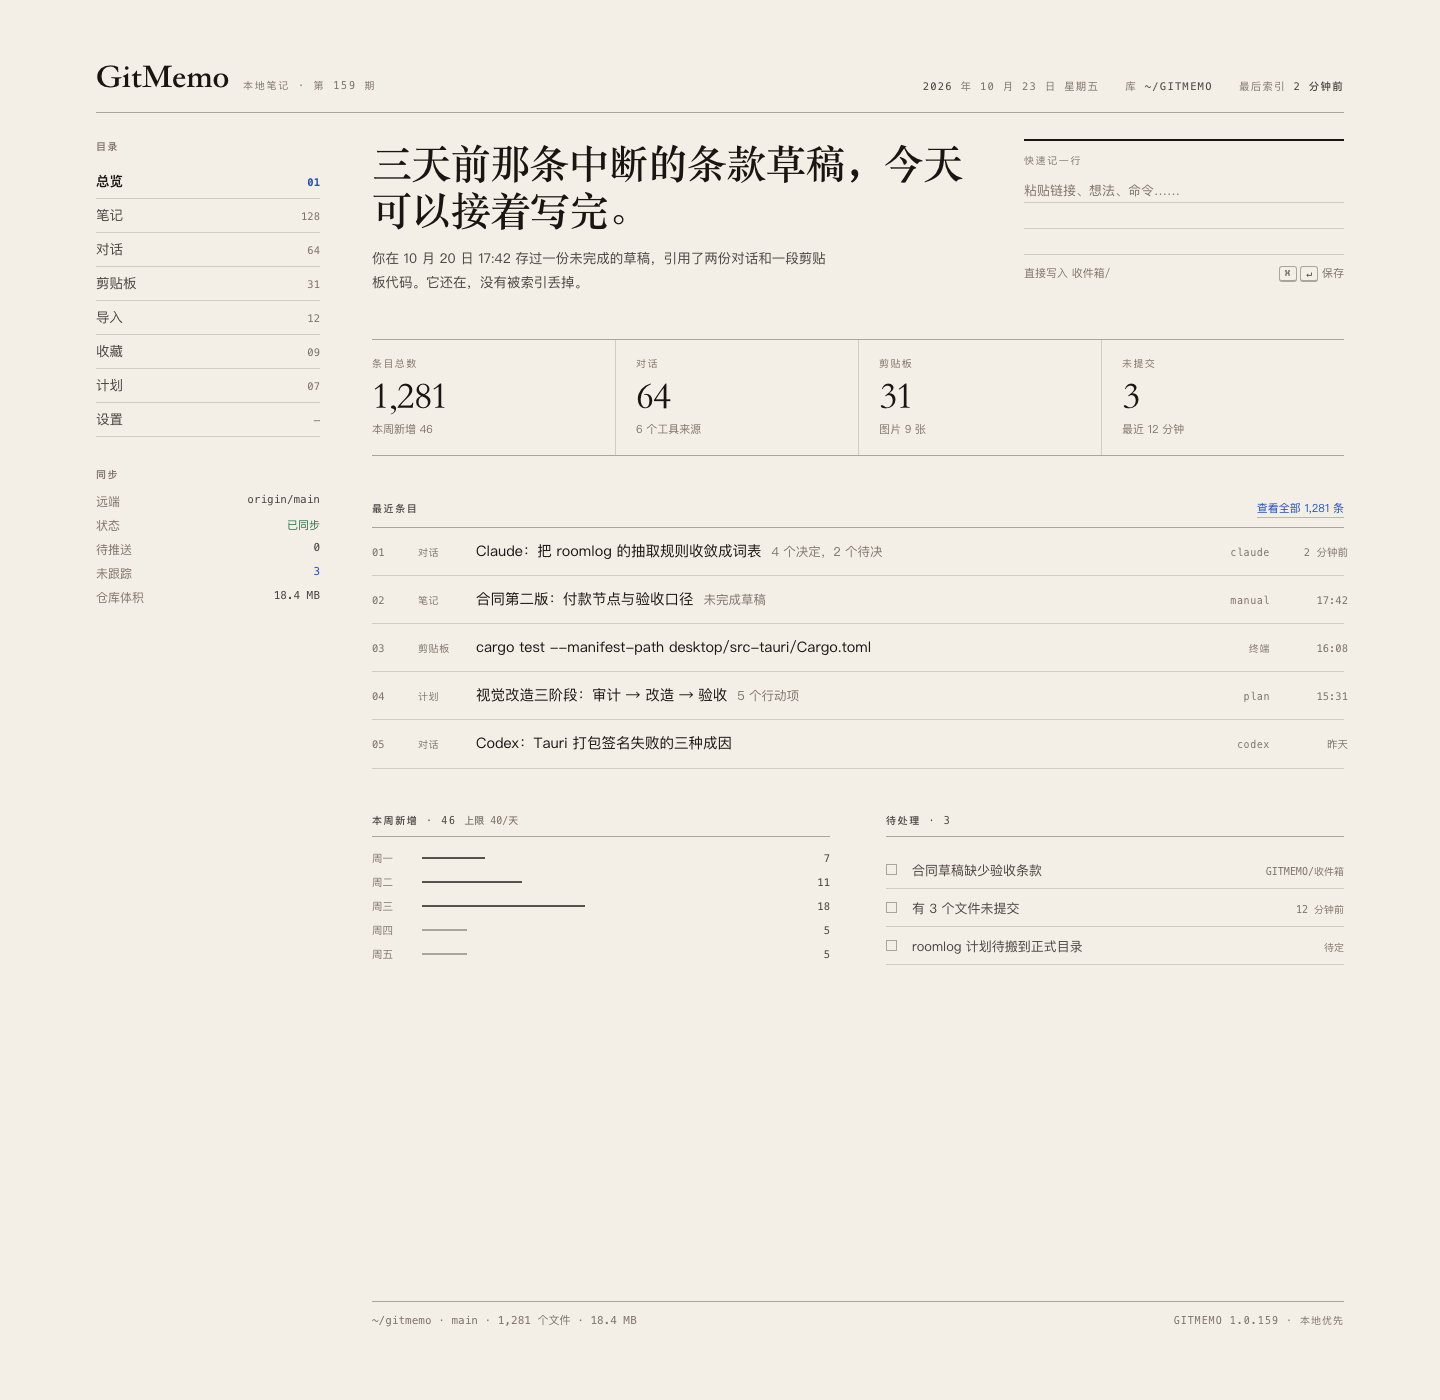
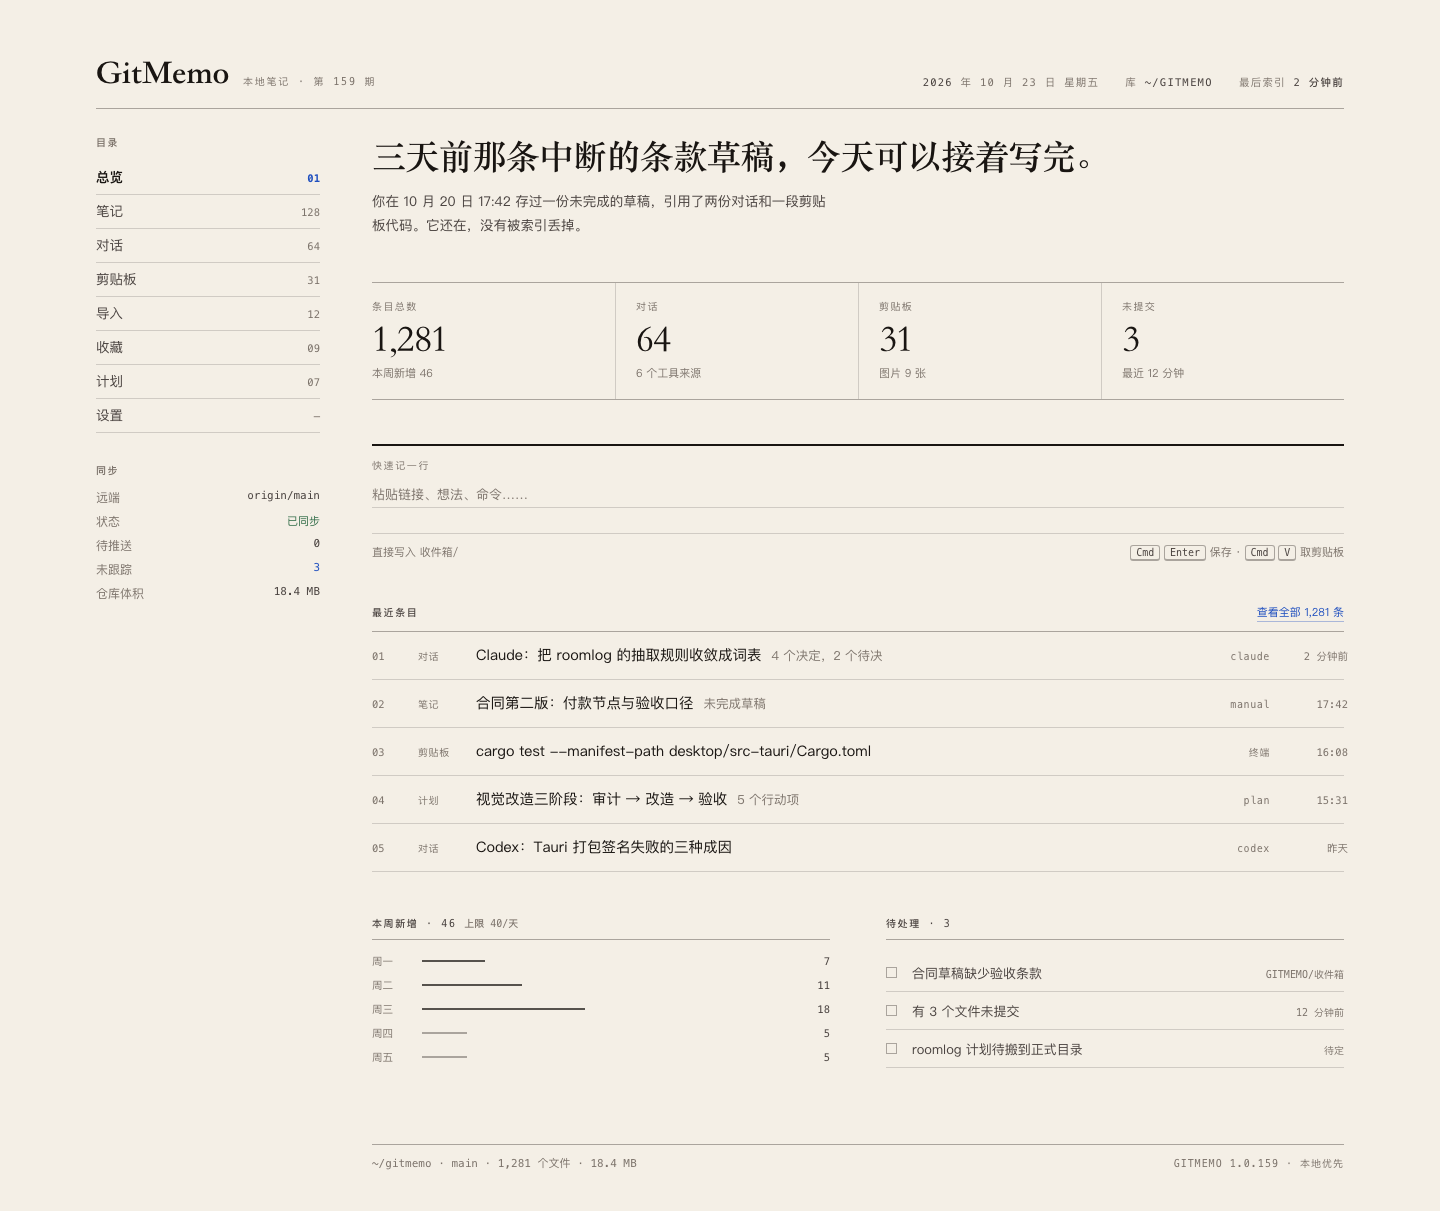
docs(design): tighten paper mock layout and move quick capture into the main flow

diff --git a/desktop/design-proposals/C-paper.html b/desktop/design-proposals/C-paper.html
@@ -20,7 +20,7 @@
   *{box-sizing:border-box;margin:0;padding:0}
   html,body{background:var(--paper);color:var(--ink);font-family:var(--sans);
     -webkit-font-smoothing:antialiased;font-variant-numeric:tabular-nums;overflow-x:hidden}
-  .page{width:1440px;min-height:1400px;margin:0 auto;padding:60px 96px 72px;
+  .page{width:1440px;margin:0 auto;padding:56px 96px 40px;
     display:flex;flex-direction:column}
   /* ---------- 报头 ---------- */
   .masthead{display:flex;align-items:flex-end;justify-content:space-between;
@@ -54,11 +54,14 @@
   /* ---------- 正文 ---------- */
   .body{display:flex;flex-direction:column;gap:44px;min-width:0}
   .body > section:last-of-type{flex:1}
-  .lede{display:grid;grid-template-columns:1fr 320px;gap:56px;align-items:start}
-  .lede h3{font-family:var(--serif);font-size:40px;line-height:1.18;font-weight:600;
-    letter-spacing:-.015em;max-width:15em}
+  .lede{display:block}
+  .lede h3{font-family:var(--serif);font-size:34px;line-height:1.22;font-weight:600;
+    letter-spacing:-.015em;max-width:22em}
   .lede p{margin-top:14px;font-size:13.5px;line-height:1.75;color:var(--ink-2);max-width:34em}
   .quick{border-top:2px solid var(--ink);padding-top:12px}
+  .quick-band{display:grid;grid-template-columns:1fr;gap:0}
+  .quick-band .line{height:30px;font-size:13.5px}
+  .quick-band .hint{margin-top:8px}
   .quick h4{font-family:var(--mono);font-size:10px;letter-spacing:.16em;
     text-transform:uppercase;color:var(--ink-3);font-weight:400;margin-bottom:10px}
   .quick .line{border-bottom:1px solid var(--rule);height:26px;display:flex;align-items:center;
@@ -116,7 +119,7 @@
   .todo li b{font-weight:400;font-family:var(--mono);font-size:10px;color:var(--ink-3)}
   /* ---------- 页脚 ---------- */
   .colophon{display:flex;justify-content:space-between;align-items:baseline;
-    margin-top:40px;padding-top:10px;border-top:1px solid var(--rule-strong);
+    margin-top:32px;padding-top:10px;border-top:1px solid var(--rule-strong);
     font-family:var(--mono);font-size:10px;letter-spacing:.1em;color:var(--ink-3);
     text-transform:uppercase}
   .colophon .path{text-transform:none;letter-spacing:0;font-size:11px}
@@ -128,10 +131,12 @@
     .brand h1{font-size:26px}
     .dateline{flex-wrap:wrap;gap:10px 18px;font-size:10px;width:100%}
     .sheet{grid-template-columns:1fr;gap:26px;padding-top:18px}
-    .rail{order:2}
+    .rail{order:0;display:grid;grid-template-columns:auto auto;gap:0 18px;align-items:start}
+    .rail .state{margin-top:0}
+    .nav{display:grid;grid-template-columns:1fr;column-gap:0}
     .nav{display:grid;grid-template-columns:1fr 1fr;column-gap:18px}
     .state{margin-top:22px}
-    .body{order:1;gap:30px}
+    .body{order:1;gap:28px}
     .lede{grid-template-columns:1fr;gap:24px}
     .lede h3{font-size:25px;line-height:1.28}
     .figures{grid-template-columns:1fr 1fr}
@@ -192,17 +197,8 @@
     <main class="body">
 
       <section class="lede">
-        <div>
-          <h3>三天前那条中断的条款草稿，今天可以接着写完。</h3>
-          <p>你在 10 月 20 日 17:42 存过一份未完成的草稿，引用了两份对话和一段剪贴板代码。它还在，没有被索引丢掉。</p>
-        </div>
-        <div class="quick">
-          <h4>快速记一行</h4>
-          <div class="line">粘贴链接、想法、命令……</div>
-          <div class="line"></div>
-          <div class="line"></div>
-          <div class="hint"><span>直接写入 收件箱/</span><span><kbd>⌘</kbd> <kbd>↵</kbd> 保存</span></div>
-        </div>
+        <h3>三天前那条中断的条款草稿，今天可以接着写完。</h3>
+        <p>你在 10 月 20 日 17:42 存过一份未完成的草稿，引用了两份对话和一段剪贴板代码。它还在，没有被索引丢掉。</p>
       </section>
 
       <section class="figures">
@@ -210,6 +206,13 @@
         <div class="fig"><div class="k">对话</div><div class="v">64</div><div class="d">6 个工具来源</div></div>
         <div class="fig"><div class="k">剪贴板</div><div class="v">31</div><div class="d">图片 9 张</div></div>
         <div class="fig"><div class="k">未提交</div><div class="v">3</div><div class="d">最近 12 分钟</div></div>
+      </section>
+
+      <section class="quick quick-band">
+        <h4>快速记一行</h4>
+        <div class="line">粘贴链接、想法、命令……</div>
+        <div class="line"></div>
+        <div class="hint"><span>直接写入 收件箱/</span><span><kbd>Cmd</kbd> <kbd>Enter</kbd> 保存 · <kbd>Cmd</kbd> <kbd>V</kbd> 取剪贴板</span></div>
       </section>
 
       <section>
